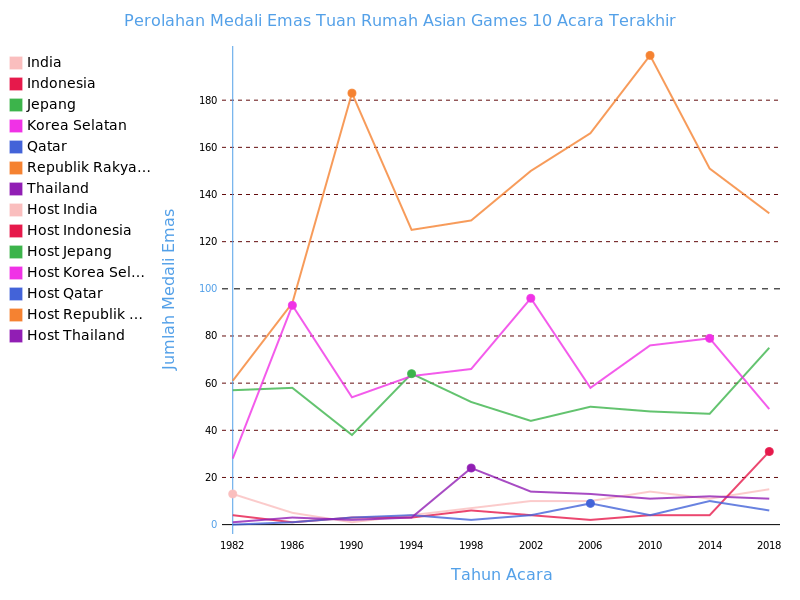
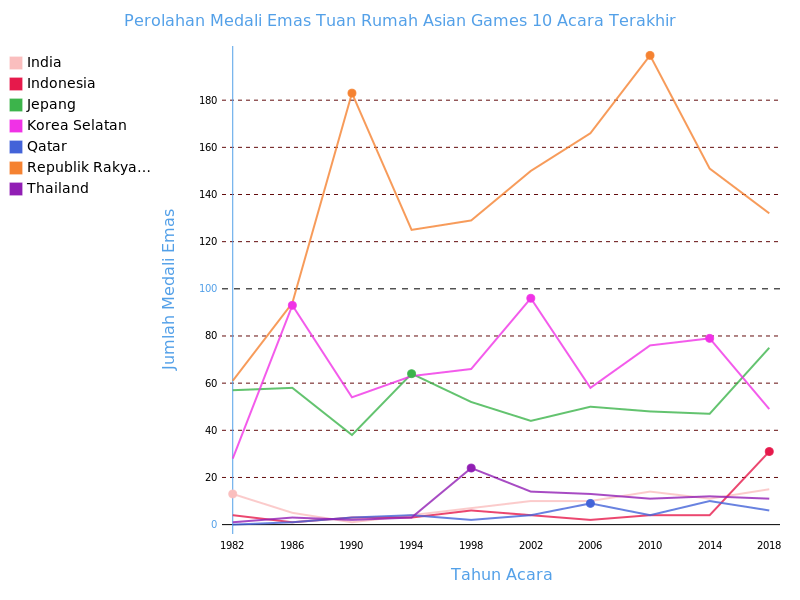
merge host series to country series

Changed region(s): [[0.0, 0.33, 0.1562, 0.57]]

diff --git a/src/visualization.py b/src/visualization.py
@@ -164,17 +164,13 @@ class HostProgressChart(BaseChart):
             for country_progress in event['Data']:
                 country_name = country_progress['Negara']
                 if country_name in hosts:
-                    golds[country_name].append(int(country_progress['Emas']))
-                if country_name == hosts[index]:
-                    host_golds[country_name].append(int(country_progress['Emas']))
-                elif country_name in hosts:
-                    host_golds[country_name].append(None)
+                    gold = int(country_progress['Emas'])
+                    radius = 4 if country_name == hosts[index] else 0
+                    golds[country_name].append({'value': gold, 'node': {'r': radius}})
 
         self.chart.x_labels = years
         for country in sorted(set(hosts)):
-            self.chart.add(country, golds[country], show_dots=False, stroke_style={'width': 2})
-        for country in sorted(set(hosts)):
-            self.chart.add('Host %s' % country, host_golds[country], dots_size=4, stroke=False)
+            self.chart.add(country, golds[country], stroke_style={'width': 2})
 
     def render_to_png(self):
         self.chart.render_to_png(self.output)
